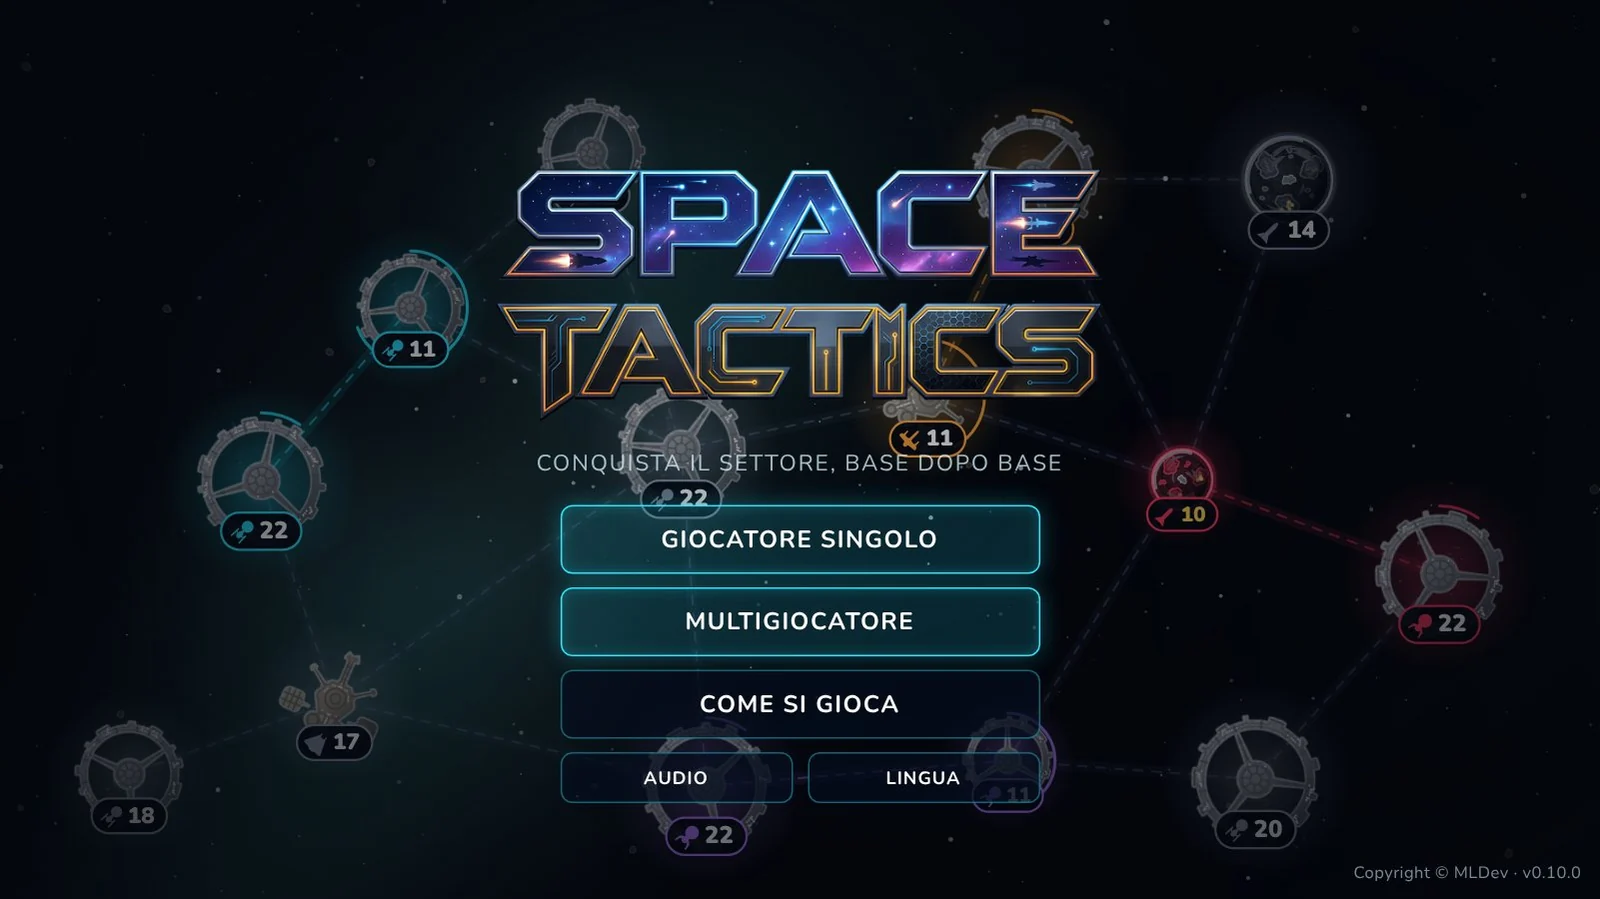
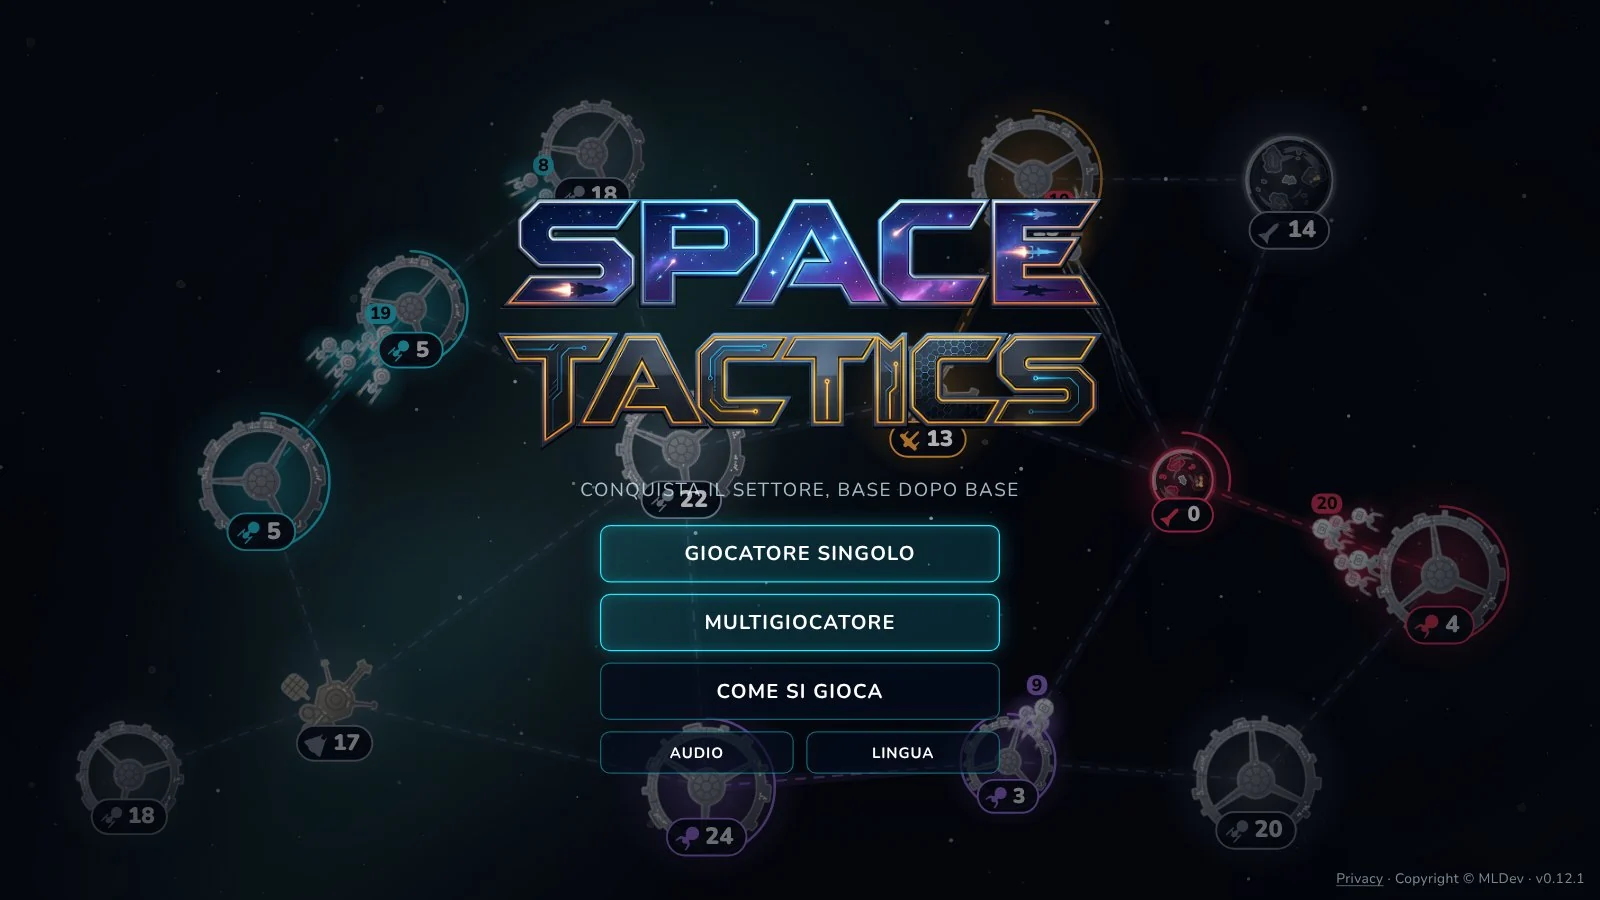
Refresh the Space Warfront and Space Tactics pages from the current repos; light footer
- Space Warfront: all screenshots re-exported from the 0.56.2 images, level-20 caption, new Arena mode
- Space Tactics: ten screenshots (battle, assault, upgrades, mission select, briefing, skirmish, research, multiplayer) from the 0.12.1 images
- Footer (site and books.html) now follows the light theme

diff --git a/it/progetti/space-tactics/index.html b/it/progetti/space-tactics/index.html
@@ -166,16 +166,64 @@
 
       <div class="shots reveal" data-delay="160">
           <figure class="shot">
-            <a href="../../../assets/img/screens/space-tactics/partita.webp" data-lightbox="space-tactics" aria-label="Ingrandisci: Missione 8: le basi azzurre del giocatore, quelle neutrali al centro e due flotte nemiche a destra">
-              <img src="../../../assets/img/screens/space-tactics/partita.webp" alt="Missione 8: le basi azzurre del giocatore, quelle neutrali al centro e due flotte nemiche a destra" width="1600" height="899" loading="lazy" decoding="async">
+            <a href="../../../assets/img/screens/space-tactics/partita.webp" data-lightbox="space-tactics" aria-label="Ingrandisci: Missione 12, «Cuore della nebulosa»: le basi azzurre del giocatore, quelle neutrali al centro e due flotte nemiche a destra">
+              <img src="../../../assets/img/screens/space-tactics/partita.webp" alt="Missione 12, «Cuore della nebulosa»: le basi azzurre del giocatore, quelle neutrali al centro e due flotte nemiche a destra" width="1600" height="900" loading="lazy" decoding="async">
             </a>
-            <figcaption>Missione 8: le basi azzurre del giocatore, quelle neutrali al centro e due flotte nemiche a destra</figcaption>
+            <figcaption>Missione 12, «Cuore della nebulosa»: le basi azzurre del giocatore, quelle neutrali al centro e due flotte nemiche a destra</figcaption>
           </figure>
           <figure class="shot">
             <a href="../../../assets/img/screens/space-tactics/menu.webp" data-lightbox="space-tactics" aria-label="Ingrandisci: La schermata principale, con una battaglia dimostrativa tra quattro IA sullo sfondo">
-              <img src="../../../assets/img/screens/space-tactics/menu.webp" alt="La schermata principale, con una battaglia dimostrativa tra quattro IA sullo sfondo" width="1600" height="899" loading="lazy" decoding="async">
+              <img src="../../../assets/img/screens/space-tactics/menu.webp" alt="La schermata principale, con una battaglia dimostrativa tra quattro IA sullo sfondo" width="1600" height="900" loading="lazy" decoding="async">
             </a>
             <figcaption>La schermata principale, con una battaglia dimostrativa tra quattro IA sullo sfondo</figcaption>
+          </figure>
+          <figure class="shot">
+            <a href="../../../assets/img/screens/space-tactics/attacco.webp" data-lightbox="space-tactics" aria-label="Ingrandisci: Assalto ingrandito: caccia e fregate attaccano una base protetta dallo scudo, tra esplosioni e raggi laser">
+              <img src="../../../assets/img/screens/space-tactics/attacco.webp" alt="Assalto ingrandito: caccia e fregate attaccano una base protetta dallo scudo, tra esplosioni e raggi laser" width="1600" height="900" loading="lazy" decoding="async">
+            </a>
+            <figcaption>Assalto ingrandito: caccia e fregate attaccano una base protetta dallo scudo, tra esplosioni e raggi laser</figcaption>
+          </figure>
+          <figure class="shot">
+            <a href="../../../assets/img/screens/space-tactics/potenziamenti.webp" data-lightbox="space-tactics" aria-label="Ingrandisci: Una base potenziata: Difesa al livello 3, Contraerea al livello 2 e Capacità al livello 1">
+              <img src="../../../assets/img/screens/space-tactics/potenziamenti.webp" alt="Una base potenziata: Difesa al livello 3, Contraerea al livello 2 e Capacità al livello 1" width="1600" height="900" loading="lazy" decoding="async">
+            </a>
+            <figcaption>Una base potenziata: Difesa al livello 3, Contraerea al livello 2 e Capacità al livello 1</figcaption>
+          </figure>
+          <figure class="shot">
+            <a href="../../../assets/img/screens/space-tactics/livelli.webp" data-lightbox="space-tactics" aria-label="Ingrandisci: La scelta della missione: il secondo settore, con le stelle ottenute">
+              <img src="../../../assets/img/screens/space-tactics/livelli.webp" alt="La scelta della missione: il secondo settore, con le stelle ottenute" width="1600" height="900" loading="lazy" decoding="async">
+            </a>
+            <figcaption>La scelta della missione: il secondo settore, con le stelle ottenute</figcaption>
+          </figure>
+          <figure class="shot">
+            <a href="../../../assets/img/screens/space-tactics/presentazione.webp" data-lightbox="space-tactics" aria-label="Ingrandisci: Presentazione della missione 12: racconto, obiettivi con i tempi delle stelle e anteprima della mappa">
+              <img src="../../../assets/img/screens/space-tactics/presentazione.webp" alt="Presentazione della missione 12: racconto, obiettivi con i tempi delle stelle e anteprima della mappa" width="1600" height="900" loading="lazy" decoding="async">
+            </a>
+            <figcaption>Presentazione della missione 12: racconto, obiettivi con i tempi delle stelle e anteprima della mappa</figcaption>
+          </figure>
+          <figure class="shot">
+            <a href="../../../assets/img/screens/space-tactics/schermaglia.webp" data-lightbox="space-tactics" aria-label="Ingrandisci: Schermaglia: difficoltà, mappa, avversari e ricerca">
+              <img src="../../../assets/img/screens/space-tactics/schermaglia.webp" alt="Schermaglia: difficoltà, mappa, avversari e ricerca" width="1600" height="900" loading="lazy" decoding="async">
+            </a>
+            <figcaption>Schermaglia: difficoltà, mappa, avversari e ricerca</figcaption>
+          </figure>
+          <figure class="shot">
+            <a href="../../../assets/img/screens/space-tactics/ricerca.webp" data-lightbox="space-tactics" aria-label="Ingrandisci: La Ricerca: le sei voci con i livelli comprati e il costo del successivo">
+              <img src="../../../assets/img/screens/space-tactics/ricerca.webp" alt="La Ricerca: le sei voci con i livelli comprati e il costo del successivo" width="1600" height="900" loading="lazy" decoding="async">
+            </a>
+            <figcaption>La Ricerca: le sei voci con i livelli comprati e il costo del successivo</figcaption>
+          </figure>
+          <figure class="shot">
+            <a href="../../../assets/img/screens/space-tactics/mp-ospita.webp" data-lightbox="space-tactics" aria-label="Ingrandisci: Multigiocatore: chi ospita sceglie codice di tre lettere, giocatori, modalità e mappa">
+              <img src="../../../assets/img/screens/space-tactics/mp-ospita.webp" alt="Multigiocatore: chi ospita sceglie codice di tre lettere, giocatori, modalità e mappa" width="1600" height="900" loading="lazy" decoding="async">
+            </a>
+            <figcaption>Multigiocatore: chi ospita sceglie codice di tre lettere, giocatori, modalità e mappa</figcaption>
+          </figure>
+          <figure class="shot">
+            <a href="../../../assets/img/screens/space-tactics/mp-attesa.webp" data-lightbox="space-tactics" aria-label="Ingrandisci: La sala d'attesa vista da chi si è unito: due giocatori pronti, il terzo in attesa">
+              <img src="../../../assets/img/screens/space-tactics/mp-attesa.webp" alt="La sala d'attesa vista da chi si è unito: due giocatori pronti, il terzo in attesa" width="1600" height="900" loading="lazy" decoding="async">
+            </a>
+            <figcaption>La sala d'attesa vista da chi si è unito: due giocatori pronti, il terzo in attesa</figcaption>
           </figure>
       </div>
 

diff --git a/en/projects/space-tactics/index.html b/en/projects/space-tactics/index.html
@@ -166,16 +166,64 @@
 
       <div class="shots reveal" data-delay="160">
           <figure class="shot">
-            <a href="../../../assets/img/screens/space-tactics/partita.webp" data-lightbox="space-tactics" aria-label="Enlarge: Mission 8: the player's blue bases, the neutral ones in the middle and two enemy fleets on the right">
-              <img src="../../../assets/img/screens/space-tactics/partita.webp" alt="Mission 8: the player's blue bases, the neutral ones in the middle and two enemy fleets on the right" width="1600" height="899" loading="lazy" decoding="async">
+            <a href="../../../assets/img/screens/space-tactics/partita.webp" data-lightbox="space-tactics" aria-label="Enlarge: Mission 12, &quot;Heart of the Nebula&quot;: the player's blue bases, the neutral ones in the middle and two enemy fleets on the right">
+              <img src="../../../assets/img/screens/space-tactics/partita.webp" alt="Mission 12, &quot;Heart of the Nebula&quot;: the player's blue bases, the neutral ones in the middle and two enemy fleets on the right" width="1600" height="900" loading="lazy" decoding="async">
             </a>
-            <figcaption>Mission 8: the player's blue bases, the neutral ones in the middle and two enemy fleets on the right</figcaption>
+            <figcaption>Mission 12, &quot;Heart of the Nebula&quot;: the player's blue bases, the neutral ones in the middle and two enemy fleets on the right</figcaption>
           </figure>
           <figure class="shot">
             <a href="../../../assets/img/screens/space-tactics/menu.webp" data-lightbox="space-tactics" aria-label="Enlarge: The main screen, with a demo battle between four AIs in the background">
-              <img src="../../../assets/img/screens/space-tactics/menu.webp" alt="The main screen, with a demo battle between four AIs in the background" width="1600" height="899" loading="lazy" decoding="async">
+              <img src="../../../assets/img/screens/space-tactics/menu.webp" alt="The main screen, with a demo battle between four AIs in the background" width="1600" height="900" loading="lazy" decoding="async">
             </a>
             <figcaption>The main screen, with a demo battle between four AIs in the background</figcaption>
+          </figure>
+          <figure class="shot">
+            <a href="../../../assets/img/screens/space-tactics/attacco.webp" data-lightbox="space-tactics" aria-label="Enlarge: Close-up assault: fighters and frigates attack a shielded base amid explosions and laser beams">
+              <img src="../../../assets/img/screens/space-tactics/attacco.webp" alt="Close-up assault: fighters and frigates attack a shielded base amid explosions and laser beams" width="1600" height="900" loading="lazy" decoding="async">
+            </a>
+            <figcaption>Close-up assault: fighters and frigates attack a shielded base amid explosions and laser beams</figcaption>
+          </figure>
+          <figure class="shot">
+            <a href="../../../assets/img/screens/space-tactics/potenziamenti.webp" data-lightbox="space-tactics" aria-label="Enlarge: An upgraded base: Defense at level 3, Anti-air at level 2 and Capacity at level 1">
+              <img src="../../../assets/img/screens/space-tactics/potenziamenti.webp" alt="An upgraded base: Defense at level 3, Anti-air at level 2 and Capacity at level 1" width="1600" height="900" loading="lazy" decoding="async">
+            </a>
+            <figcaption>An upgraded base: Defense at level 3, Anti-air at level 2 and Capacity at level 1</figcaption>
+          </figure>
+          <figure class="shot">
+            <a href="../../../assets/img/screens/space-tactics/livelli.webp" data-lightbox="space-tactics" aria-label="Enlarge: Mission select: the second sector, with the stars earned">
+              <img src="../../../assets/img/screens/space-tactics/livelli.webp" alt="Mission select: the second sector, with the stars earned" width="1600" height="900" loading="lazy" decoding="async">
+            </a>
+            <figcaption>Mission select: the second sector, with the stars earned</figcaption>
+          </figure>
+          <figure class="shot">
+            <a href="../../../assets/img/screens/space-tactics/presentazione.webp" data-lightbox="space-tactics" aria-label="Enlarge: Mission 12 briefing: story, objectives with the star times and a map preview">
+              <img src="../../../assets/img/screens/space-tactics/presentazione.webp" alt="Mission 12 briefing: story, objectives with the star times and a map preview" width="1600" height="900" loading="lazy" decoding="async">
+            </a>
+            <figcaption>Mission 12 briefing: story, objectives with the star times and a map preview</figcaption>
+          </figure>
+          <figure class="shot">
+            <a href="../../../assets/img/screens/space-tactics/schermaglia.webp" data-lightbox="space-tactics" aria-label="Enlarge: Skirmish: difficulty, map, opponents and research">
+              <img src="../../../assets/img/screens/space-tactics/schermaglia.webp" alt="Skirmish: difficulty, map, opponents and research" width="1600" height="900" loading="lazy" decoding="async">
+            </a>
+            <figcaption>Skirmish: difficulty, map, opponents and research</figcaption>
+          </figure>
+          <figure class="shot">
+            <a href="../../../assets/img/screens/space-tactics/ricerca.webp" data-lightbox="space-tactics" aria-label="Enlarge: Research: the six items with the levels bought and the cost of the next one">
+              <img src="../../../assets/img/screens/space-tactics/ricerca.webp" alt="Research: the six items with the levels bought and the cost of the next one" width="1600" height="900" loading="lazy" decoding="async">
+            </a>
+            <figcaption>Research: the six items with the levels bought and the cost of the next one</figcaption>
+          </figure>
+          <figure class="shot">
+            <a href="../../../assets/img/screens/space-tactics/mp-ospita.webp" data-lightbox="space-tactics" aria-label="Enlarge: Multiplayer: the host picks a three-letter code, players, mode and map">
+              <img src="../../../assets/img/screens/space-tactics/mp-ospita.webp" alt="Multiplayer: the host picks a three-letter code, players, mode and map" width="1600" height="900" loading="lazy" decoding="async">
+            </a>
+            <figcaption>Multiplayer: the host picks a three-letter code, players, mode and map</figcaption>
+          </figure>
+          <figure class="shot">
+            <a href="../../../assets/img/screens/space-tactics/mp-attesa.webp" data-lightbox="space-tactics" aria-label="Enlarge: The waiting room seen by a player who joined: two ready, the third still to come">
+              <img src="../../../assets/img/screens/space-tactics/mp-attesa.webp" alt="The waiting room seen by a player who joined: two ready, the third still to come" width="1600" height="900" loading="lazy" decoding="async">
+            </a>
+            <figcaption>The waiting room seen by a player who joined: two ready, the third still to come</figcaption>
           </figure>
       </div>
 

diff --git a/it/progetti/space-warfront/index.html b/it/progetti/space-warfront/index.html
@@ -94,7 +94,7 @@
 
         <p>Prima si richiamano i <strong>raccoglitori</strong>, che estraggono materiale dai meteoriti; poi, con quel materiale, si fa arrivare un'armata per raggiungere gli obiettivi dei <strong>30 livelli della Campagna</strong>, divisi in 5 atti di difficoltà crescente: distruggere le basi nemiche, conquistare pianeti e stazioni, annientare convogli, difendere basi alleate o resistere a ondate d'attacco. Scene a fumetti raccontano la storia.</p>
 
-        <p>Oltre alla Campagna c'è la modalità <strong>Battaglia</strong>, una partita libera con difficoltà, mappa, alleati e avversari a scelta, e il <strong>multigiocatore sulla stessa Wi-Fi</strong>, da 2 a 4 giocatori con l'IA nei posti liberi.</p>
+        <p>Oltre alla Campagna ci sono la <strong>Battaglia</strong>, una partita libera con difficoltà, mappa, alleati e avversari a scelta, l'<strong>Arena</strong>, uno scontro diretto tra flotte già schierate senza raccoglitori, e il <strong>multigiocatore sulla stessa Wi-Fi</strong>, da 2 a 4 giocatori con l'IA nei posti liberi.</p>
         </div>
 
         <ul class="fact-list">
@@ -118,7 +118,7 @@
             <svg viewBox="0 0 24 24" fill="none" stroke="currentColor" stroke-width="2" stroke-linecap="round" stroke-linejoin="round" aria-hidden="true"><path d="M16 20v-2a4 4 0 0 0-4-4H6a4 4 0 0 0-4 4v2"/><circle cx="9" cy="7" r="3.5"/><path d="M22 20v-2a4 4 0 0 0-3-3.9M16 3.1a3.5 3.5 0 0 1 0 6.8"/></svg>
             <div>
               <div class="k">Modalità</div>
-              <div class="v">Campagna da 30 livelli, Battaglia, multigiocatore Wi-Fi</div>
+              <div class="v">Campagna da 30 livelli, Battaglia, Arena, multigiocatore Wi-Fi</div>
             </div>
           </li>
 
@@ -155,6 +155,8 @@
 
           <li><svg viewBox="0 0 24 24" fill="none" stroke="currentColor" stroke-width="2" stroke-linecap="round" stroke-linejoin="round" aria-hidden="true"><circle cx="12" cy="12" r="9"/><path d="m8.5 12.5 2.5 2.5 5-5"/></svg><span>Gioca una Battaglia libera scegliendo difficoltà, mappa, alleati e avversari</span></li>
 
+          <li><svg viewBox="0 0 24 24" fill="none" stroke="currentColor" stroke-width="2" stroke-linecap="round" stroke-linejoin="round" aria-hidden="true"><circle cx="12" cy="12" r="9"/><path d="m8.5 12.5 2.5 2.5 5-5"/></svg><span>Scegli l'Arena per uno scontro diretto tra flotte già schierate, con il materiale che arriva da solo</span></li>
+
           <li><svg viewBox="0 0 24 24" fill="none" stroke="currentColor" stroke-width="2" stroke-linecap="round" stroke-linejoin="round" aria-hidden="true"><circle cx="12" cy="12" r="9"/><path d="m8.5 12.5 2.5 2.5 5-5"/></svg><span>Sfida gli amici sulla stessa Wi-Fi, da 2 a 4 giocatori, con l'IA nei posti liberi</span></li>
       </ul>
 
@@ -170,10 +172,10 @@
             <figcaption>La schermata principale: logo, menu e una battaglia dimostrativa sullo sfondo</figcaption>
           </figure>
           <figure class="shot">
-            <a href="../../../assets/img/screens/space-warfront/partita.webp" data-lightbox="space-warfront" aria-label="Ingrandisci: Una battaglia al livello 8: la flotta della Coalizione attacca la nave madre nemica">
-              <img src="../../../assets/img/screens/space-warfront/partita.webp" alt="Una battaglia al livello 8: la flotta della Coalizione attacca la nave madre nemica" width="1600" height="800" loading="lazy" decoding="async">
+            <a href="../../../assets/img/screens/space-warfront/partita.webp" data-lightbox="space-warfront" aria-label="Ingrandisci: Livello 20, «La corazzata»: le navi della Coalizione e degli Skarn si scontrano">
+              <img src="../../../assets/img/screens/space-warfront/partita.webp" alt="Livello 20, «La corazzata»: le navi della Coalizione e degli Skarn si scontrano" width="1600" height="800" loading="lazy" decoding="async">
             </a>
-            <figcaption>Una battaglia al livello 8: la flotta della Coalizione attacca la nave madre nemica</figcaption>
+            <figcaption>Livello 20, «La corazzata»: le navi della Coalizione e degli Skarn si scontrano</figcaption>
           </figure>
           <figure class="shot">
             <a href="../../../assets/img/screens/space-warfront/presentazione.webp" data-lightbox="space-warfront" aria-label="Ingrandisci: Presentazione di un livello: storia, obiettivi e stelle da conquistare">

diff --git a/en/projects/space-warfront/index.html b/en/projects/space-warfront/index.html
@@ -94,7 +94,7 @@
 
         <p>First you call in <strong>harvesters</strong>, which mine material from asteroids; then, with that material, you bring in an armada to reach the goals of the <strong>30 Campaign levels</strong>, split into 5 acts of rising difficulty: destroy enemy bases, capture planets and stations, wipe out convoys, defend allied bases or survive waves of attacks. Comic-style scenes tell the story.</p>
 
-        <p>Besides the Campaign there is <strong>Battle</strong> mode, a free match where you choose difficulty, map, allies and opponents, and <strong>same-Wi-Fi multiplayer</strong> for 2 to 4 players, with the AI filling the empty seats.</p>
+        <p>Besides the Campaign there are <strong>Battle</strong>, a free match where you choose difficulty, map, allies and opponents, <strong>Arena</strong>, a direct clash between fleets already in position with no harvesters, and <strong>same-Wi-Fi multiplayer</strong> for 2 to 4 players, with the AI filling the empty seats.</p>
         </div>
 
         <ul class="fact-list">
@@ -118,7 +118,7 @@
             <svg viewBox="0 0 24 24" fill="none" stroke="currentColor" stroke-width="2" stroke-linecap="round" stroke-linejoin="round" aria-hidden="true"><path d="M16 20v-2a4 4 0 0 0-4-4H6a4 4 0 0 0-4 4v2"/><circle cx="9" cy="7" r="3.5"/><path d="M22 20v-2a4 4 0 0 0-3-3.9M16 3.1a3.5 3.5 0 0 1 0 6.8"/></svg>
             <div>
               <div class="k">Modes</div>
-              <div class="v">30-level Campaign, Battle, Wi-Fi multiplayer</div>
+              <div class="v">30-level Campaign, Battle, Arena, Wi-Fi multiplayer</div>
             </div>
           </li>
 
@@ -155,6 +155,8 @@
 
           <li><svg viewBox="0 0 24 24" fill="none" stroke="currentColor" stroke-width="2" stroke-linecap="round" stroke-linejoin="round" aria-hidden="true"><circle cx="12" cy="12" r="9"/><path d="m8.5 12.5 2.5 2.5 5-5"/></svg><span>Play a free Battle choosing difficulty, map, allies and opponents</span></li>
 
+          <li><svg viewBox="0 0 24 24" fill="none" stroke="currentColor" stroke-width="2" stroke-linecap="round" stroke-linejoin="round" aria-hidden="true"><circle cx="12" cy="12" r="9"/><path d="m8.5 12.5 2.5 2.5 5-5"/></svg><span>Pick Arena for a direct clash between fleets already in position, with material that arrives on its own</span></li>
+
           <li><svg viewBox="0 0 24 24" fill="none" stroke="currentColor" stroke-width="2" stroke-linecap="round" stroke-linejoin="round" aria-hidden="true"><circle cx="12" cy="12" r="9"/><path d="m8.5 12.5 2.5 2.5 5-5"/></svg><span>Challenge friends on the same Wi-Fi, 2 to 4 players, with the AI in the empty seats</span></li>
       </ul>
 
@@ -170,10 +172,10 @@
             <figcaption>The main screen: logo, menu and a demo battle running in the background</figcaption>
           </figure>
           <figure class="shot">
-            <a href="../../../assets/img/screens/space-warfront/partita.webp" data-lightbox="space-warfront" aria-label="Enlarge: A battle on level 8: the Coalition fleet attacks the enemy mothership">
-              <img src="../../../assets/img/screens/space-warfront/partita.webp" alt="A battle on level 8: the Coalition fleet attacks the enemy mothership" width="1600" height="800" loading="lazy" decoding="async">
+            <a href="../../../assets/img/screens/space-warfront/partita.webp" data-lightbox="space-warfront" aria-label="Enlarge: Level 20, "The Battleship": Coalition and Skarn ships clash">
+              <img src="../../../assets/img/screens/space-warfront/partita.webp" alt="Level 20, "The Battleship": Coalition and Skarn ships clash" width="1600" height="800" loading="lazy" decoding="async">
             </a>
-            <figcaption>A battle on level 8: the Coalition fleet attacks the enemy mothership</figcaption>
+            <figcaption>Level 20, "The Battleship": Coalition and Skarn ships clash</figcaption>
           </figure>
           <figure class="shot">
             <a href="../../../assets/img/screens/space-warfront/presentazione.webp" data-lightbox="space-warfront" aria-label="Enlarge: Level briefing: story, objectives and stars to earn">

diff --git a/books.html b/books.html
@@ -241,8 +241,7 @@
   .contact .cta-row{justify-content:center;margin-bottom:0}
 
   /* ---------- footer ---------- */
-  footer{--text:#f2f1e0;--muted:#d4d5c2;--dim:#b9bcab;--line:rgba(242,241,224,.16);--line-strong:rgba(242,241,224,.3);
-    border-top:1px solid var(--charcoal);background:var(--charcoal);padding:36px 0}
+  footer{border-top:1px solid var(--line);background:rgba(228,233,214,.92);padding:36px 0}
   footer .wrap{display:flex;flex-wrap:wrap;align-items:center;justify-content:space-between;gap:16px;
     color:var(--dim);font-size:14px}
   .footer-brand{display:flex;align-items:center;gap:10px;font-weight:700;color:var(--muted)}

diff --git a/assets/css/style.css b/assets/css/style.css
@@ -1085,20 +1085,9 @@ p:last-child {
    -------------------------------------------------------------------------- */
 
 .site-footer {
-  --text: #f2f1e0;
-  --muted: #d4d5c2;
-  --dim: #b9bcab;
-  --line: rgba(242, 241, 224, 0.16);
-  --line-strong: rgba(242, 241, 224, 0.3);
-  --wash: rgba(242, 241, 224, 0.07);
-  --wash-2: rgba(242, 241, 224, 0.12);
-  border-top: 1px solid var(--charcoal);
-  background: var(--charcoal);
+  border-top: 1px solid var(--line);
+  background: rgba(228, 233, 214, 0.92);
   padding: 40px 0;
-}
-
-.site-footer .social-row a:hover {
-  color: #fff;
 }
 
 .footer-inner {
